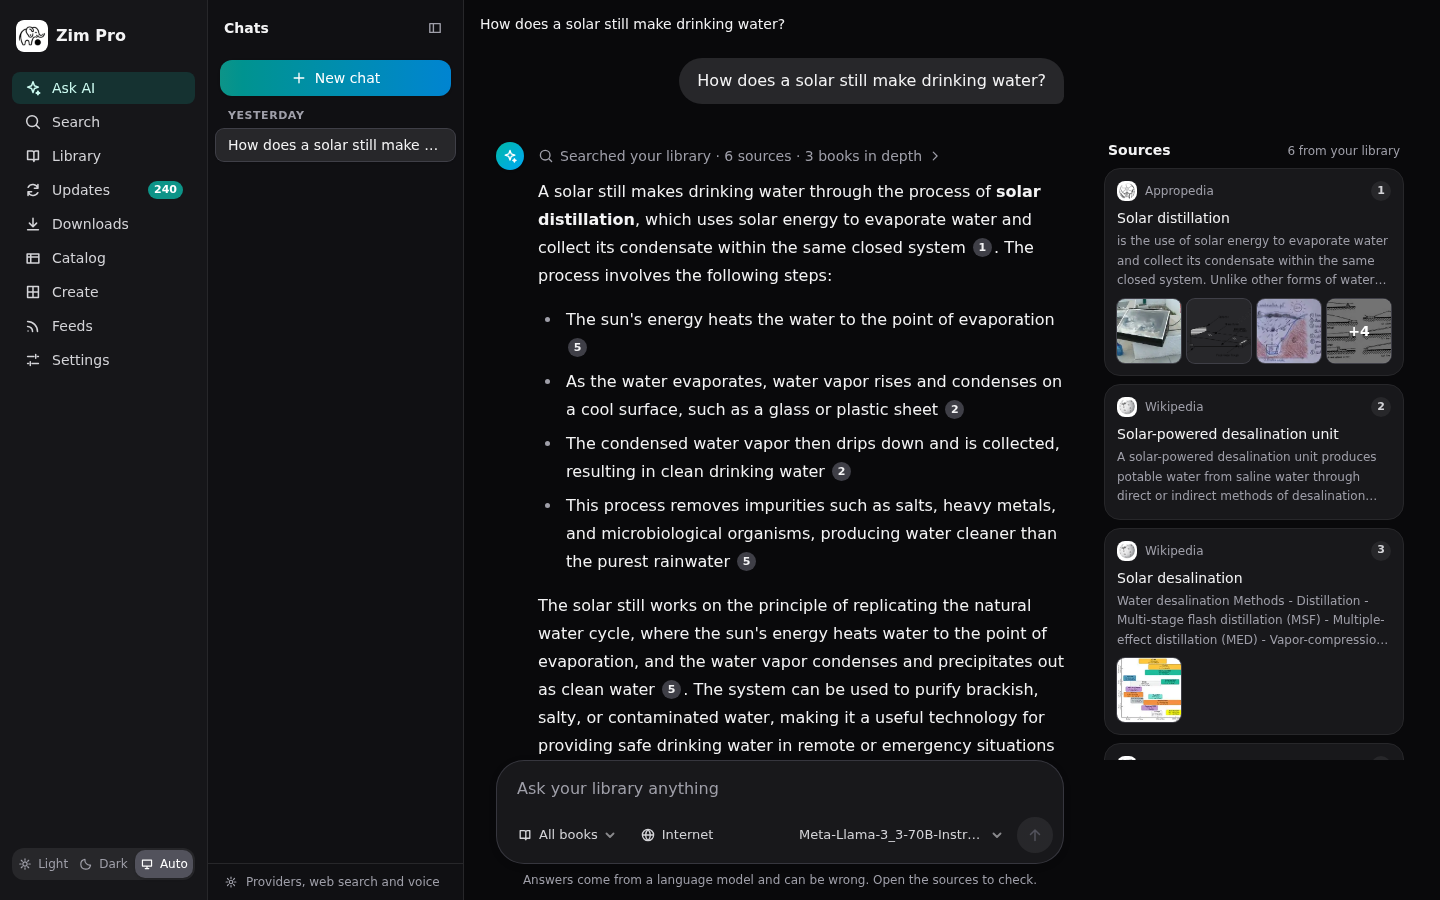
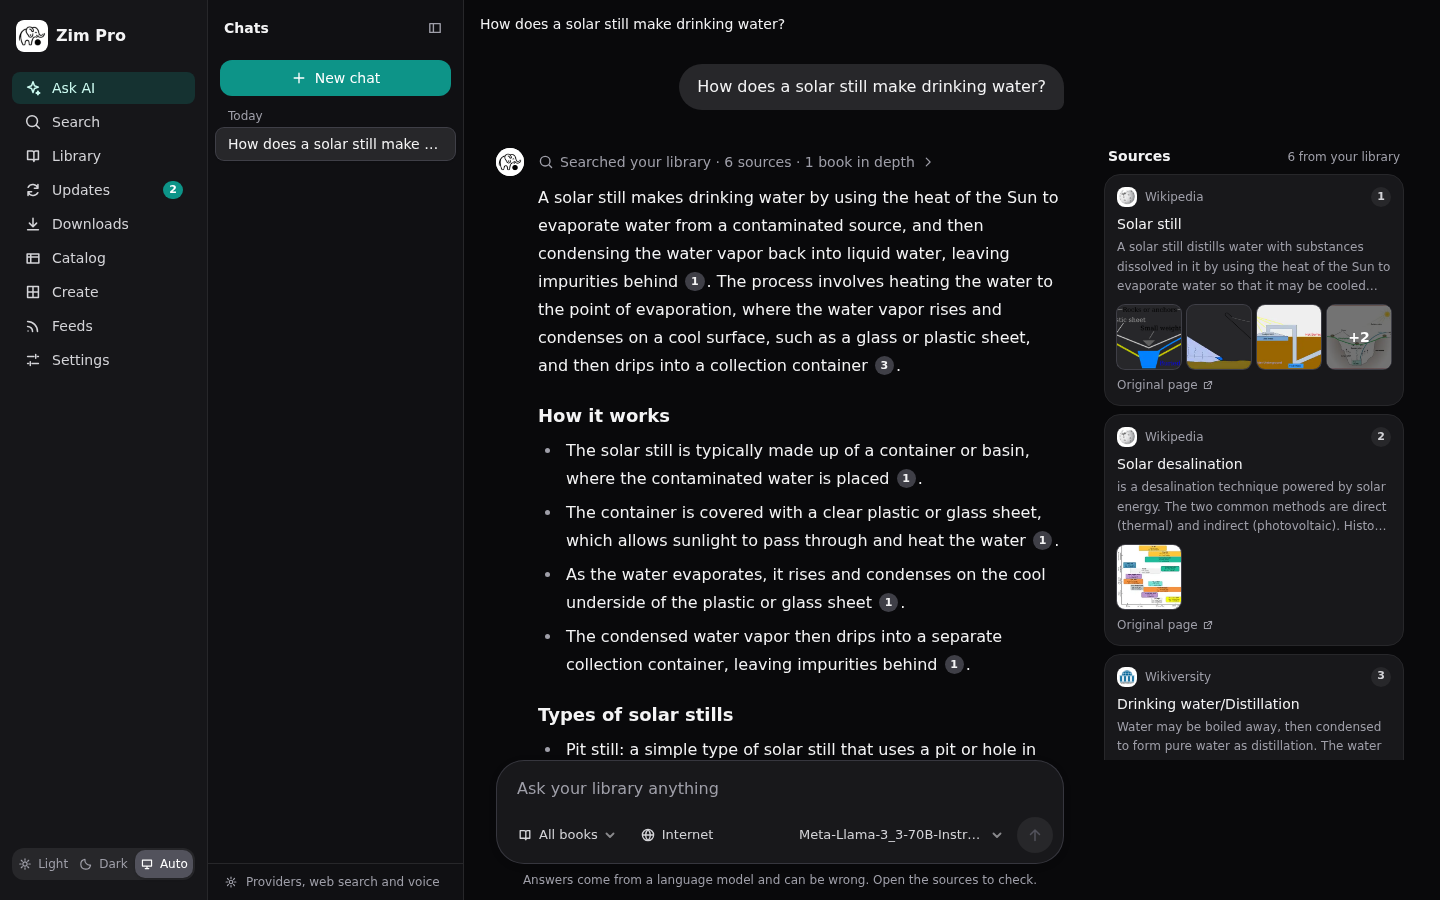
Release 0.5.4: app-style ZIMs in the reader, UI polish, PyPI README images
- Maps2ZIM and Gutenberg ZIMs work in the sandboxed reader again.
- Catalog, Library and Ask fixes from a UI review; Ask uses the
  elephant mark instead of the gradient sparkle.
- README images and links are absolute GitHub URLs so they render on
  PyPI; the Ask screenshots are retaken.

diff --git a/README.md b/README.md
@@ -1,5 +1,5 @@
 <p align="center">
-  <img src="assets/logo.png" alt="Zim Pro logo: an elephant with a ball" width="180">
+  <img src="https://raw.githubusercontent.com/magicstack-llp/zim-pro/master/assets/logo.png" alt="Zim Pro logo: an elephant with a ball" width="180">
 </p>
 
 <h1 align="center">Zim Pro</h1>
@@ -31,46 +31,46 @@ It replaces `kiwix-serve`.
 ## Screenshots
 
 <p align="center">
-  <a href="screenshots/ask.png"><img src="screenshots/ask.png" alt="Ask AI: an answer written from the library, with numbered citations and the sources beside it" width="100%"></a>
+  <a href="https://raw.githubusercontent.com/magicstack-llp/zim-pro/master/screenshots/ask.png"><img src="https://raw.githubusercontent.com/magicstack-llp/zim-pro/master/screenshots/ask.png" alt="Ask AI: an answer written from the library, with numbered citations and the sources beside it" width="100%"></a>
   <br><sub>Ask AI: an answer written from your books, with citations and the sources beside it</sub>
 </p>
 
 <table>
   <tr>
-    <td width="50%" valign="top"><a href="screenshots/ask-media.png"><img src="screenshots/ask-media.png" alt="Pictures and videos from the sources, under the answer" width="100%"></a><br><sub>Pictures and videos from the sources, under the answer</sub></td>
-    <td width="50%" valign="top"><a href="screenshots/search.png"><img src="screenshots/search.png" alt="Search across every book, with search history" width="100%"></a><br><sub>Search across every book, with search history</sub></td>
+    <td width="50%" valign="top"><a href="https://raw.githubusercontent.com/magicstack-llp/zim-pro/master/screenshots/ask-media.png"><img src="https://raw.githubusercontent.com/magicstack-llp/zim-pro/master/screenshots/ask-media.png" alt="Pictures and videos from the sources, under the answer" width="100%"></a><br><sub>Pictures and videos from the sources, under the answer</sub></td>
+    <td width="50%" valign="top"><a href="https://raw.githubusercontent.com/magicstack-llp/zim-pro/master/screenshots/search.png"><img src="https://raw.githubusercontent.com/magicstack-llp/zim-pro/master/screenshots/search.png" alt="Search across every book, with search history" width="100%"></a><br><sub>Search across every book, with search history</sub></td>
   </tr>
   <tr>
-    <td width="50%" valign="top"><a href="screenshots/library.png"><img src="screenshots/library.png" alt="The library" width="100%"></a><br><sub>The library</sub></td>
-    <td width="50%" valign="top"><a href="screenshots/markdown.png"><img src="screenshots/markdown.png" alt="Any article as Markdown, with its pictures" width="100%"></a><br><sub>Any article as Markdown, with its pictures</sub></td>
+    <td width="50%" valign="top"><a href="https://raw.githubusercontent.com/magicstack-llp/zim-pro/master/screenshots/library.png"><img src="https://raw.githubusercontent.com/magicstack-llp/zim-pro/master/screenshots/library.png" alt="The library" width="100%"></a><br><sub>The library</sub></td>
+    <td width="50%" valign="top"><a href="https://raw.githubusercontent.com/magicstack-llp/zim-pro/master/screenshots/markdown.png"><img src="https://raw.githubusercontent.com/magicstack-llp/zim-pro/master/screenshots/markdown.png" alt="Any article as Markdown, with its pictures" width="100%"></a><br><sub>Any article as Markdown, with its pictures</sub></td>
   </tr>
   <tr>
-    <td width="50%" valign="top"><a href="screenshots/updates.png"><img src="screenshots/updates.png" alt="Updates from the Kiwix catalog" width="100%"></a><br><sub>Updates from the Kiwix catalog</sub></td>
-    <td width="50%" valign="top"><a href="screenshots/settings.png"><img src="screenshots/settings.png" alt="Settings, in sections: AI, queues, monitoring, logs and more" width="100%"></a><br><sub>Settings, in sections: AI, queues, monitoring, logs and more</sub></td>
+    <td width="50%" valign="top"><a href="https://raw.githubusercontent.com/magicstack-llp/zim-pro/master/screenshots/updates.png"><img src="https://raw.githubusercontent.com/magicstack-llp/zim-pro/master/screenshots/updates.png" alt="Updates from the Kiwix catalog" width="100%"></a><br><sub>Updates from the Kiwix catalog</sub></td>
+    <td width="50%" valign="top"><a href="https://raw.githubusercontent.com/magicstack-llp/zim-pro/master/screenshots/settings.png"><img src="https://raw.githubusercontent.com/magicstack-llp/zim-pro/master/screenshots/settings.png" alt="Settings, in sections: AI, queues, monitoring, logs and more" width="100%"></a><br><sub>Settings, in sections: AI, queues, monitoring, logs and more</sub></td>
   </tr>
   <tr>
-    <td width="50%" valign="top"><a href="screenshots/create.png"><img src="screenshots/create.png" alt="Create: your own ZIMs from web links, each with its own schedule" width="100%"></a><br><sub>Create: your own ZIMs from web links, each with its own schedule</sub></td>
-    <td width="50%" valign="top"><a href="screenshots/create-link.png"><img src="screenshots/create-link.png" alt="A link's settings: rebuild schedule, sitemaps and RSS feeds" width="100%"></a><br><sub>A link's settings: rebuild schedule, sitemaps and RSS feeds</sub></td>
+    <td width="50%" valign="top"><a href="https://raw.githubusercontent.com/magicstack-llp/zim-pro/master/screenshots/create.png"><img src="https://raw.githubusercontent.com/magicstack-llp/zim-pro/master/screenshots/create.png" alt="Create: your own ZIMs from web links, each with its own schedule" width="100%"></a><br><sub>Create: your own ZIMs from web links, each with its own schedule</sub></td>
+    <td width="50%" valign="top"><a href="https://raw.githubusercontent.com/magicstack-llp/zim-pro/master/screenshots/create-link.png"><img src="https://raw.githubusercontent.com/magicstack-llp/zim-pro/master/screenshots/create-link.png" alt="A link's settings: rebuild schedule, sitemaps and RSS feeds" width="100%"></a><br><sub>A link's settings: rebuild schedule, sitemaps and RSS feeds</sub></td>
   </tr>
   <tr>
-    <td width="50%" valign="top"><a href="screenshots/create-jobs.png"><img src="screenshots/create-jobs.png" alt="Build jobs, with what each one saved" width="100%"></a><br><sub>Build jobs, with what each one saved</sub></td>
-    <td width="50%" valign="top"><a href="screenshots/feeds.png"><img src="screenshots/feeds.png" alt="Feeds: ZIMs kept up to date from RSS and Atom feeds" width="100%"></a><br><sub>Feeds: ZIMs kept up to date from RSS and Atom feeds</sub></td>
+    <td width="50%" valign="top"><a href="https://raw.githubusercontent.com/magicstack-llp/zim-pro/master/screenshots/create-jobs.png"><img src="https://raw.githubusercontent.com/magicstack-llp/zim-pro/master/screenshots/create-jobs.png" alt="Build jobs, with what each one saved" width="100%"></a><br><sub>Build jobs, with what each one saved</sub></td>
+    <td width="50%" valign="top"><a href="https://raw.githubusercontent.com/magicstack-llp/zim-pro/master/screenshots/feeds.png"><img src="https://raw.githubusercontent.com/magicstack-llp/zim-pro/master/screenshots/feeds.png" alt="Feeds: ZIMs kept up to date from RSS and Atom feeds" width="100%"></a><br><sub>Feeds: ZIMs kept up to date from RSS and Atom feeds</sub></td>
   </tr>
   <tr>
-    <td width="50%" valign="top"><a href="screenshots/monitoring.png"><img src="screenshots/monitoring.png" alt="Monitoring: health checks and the last hour of resources and traffic" width="100%"></a><br><sub>Monitoring: health checks, resources and traffic</sub></td>
+    <td width="50%" valign="top"><a href="https://raw.githubusercontent.com/magicstack-llp/zim-pro/master/screenshots/monitoring.png"><img src="https://raw.githubusercontent.com/magicstack-llp/zim-pro/master/screenshots/monitoring.png" alt="Monitoring: health checks and the last hour of resources and traffic" width="100%"></a><br><sub>Monitoring: health checks, resources and traffic</sub></td>
     <td width="50%" valign="top"></td>
   </tr>
 </table>
 
 <table>
   <tr>
-    <td width="60%" valign="top"><a href="screenshots/ask-dark.png"><img src="screenshots/ask-dark.png" alt="The dark theme" width="100%"></a><br><sub>The dark theme</sub></td>
-    <td width="20%" valign="top"><a href="screenshots/phone-ask.png"><img src="screenshots/phone-ask.png" alt="Ask AI on a phone" width="100%"></a><br><sub>On a phone</sub></td>
-    <td width="20%" valign="top"><a href="screenshots/phone-library.png"><img src="screenshots/phone-library.png" alt="The library on a phone" width="100%"></a><br><sub>Library on a phone</sub></td>
+    <td width="60%" valign="top"><a href="https://raw.githubusercontent.com/magicstack-llp/zim-pro/master/screenshots/ask-dark.png"><img src="https://raw.githubusercontent.com/magicstack-llp/zim-pro/master/screenshots/ask-dark.png" alt="The dark theme" width="100%"></a><br><sub>The dark theme</sub></td>
+    <td width="20%" valign="top"><a href="https://raw.githubusercontent.com/magicstack-llp/zim-pro/master/screenshots/phone-ask.png"><img src="https://raw.githubusercontent.com/magicstack-llp/zim-pro/master/screenshots/phone-ask.png" alt="Ask AI on a phone" width="100%"></a><br><sub>On a phone</sub></td>
+    <td width="20%" valign="top"><a href="https://raw.githubusercontent.com/magicstack-llp/zim-pro/master/screenshots/phone-library.png"><img src="https://raw.githubusercontent.com/magicstack-llp/zim-pro/master/screenshots/phone-library.png" alt="The library on a phone" width="100%"></a><br><sub>Library on a phone</sub></td>
   </tr>
 </table>
 
-The screenshots are in [`screenshots/`](screenshots). The articles and pictures shown in them
+The screenshots are in [`screenshots/`](https://github.com/magicstack-llp/zim-pro/blob/master/screenshots). The articles and pictures shown in them
 come from Wikipedia and Appropedia, which publish them under Creative Commons licences. The
 links and feeds shown on the Create and Feeds pages are public sites used as examples.
 
@@ -152,19 +152,19 @@ docker compose up -d
 
 #### Ready-made files
 
-The [`docker/`](docker) folder has complete compose files for each setup, with their
+The [`docker/`](https://github.com/magicstack-llp/zim-pro/blob/master/docker) folder has complete compose files for each setup, with their
 values in one `.env` file. Copy the folder, pick a file, and start it:
 
 | File | What you get |
 |---|---|
-| [`compose.yml`](docker/compose.yml) | Zim Pro on its own |
-| [`compose.solver.yml`](docker/compose.solver.yml) | + captcha solver (FlareSolverr) |
-| [`compose.vpn.yml`](docker/compose.vpn.yml) | + VPN (Gluetun) for links and feeds, with the solver inside it |
-| [`compose.vpn-external.yml`](docker/compose.vpn-external.yml) | Uses a Gluetun you already run elsewhere |
-| [`compose.vpn-all.yml`](docker/compose.vpn-all.yml) | All of Zim Pro's traffic through the VPN |
-| [`compose.zimit.yml`](docker/compose.zimit.yml) | + browser capture (Zimit) |
-| [`compose.redis.yml`](docker/compose.redis.yml) | + Redis for the queues and a stream of the logs |
-| [`compose.full.yml`](docker/compose.full.yml) | VPN, solver, browser capture and Redis together |
+| [`compose.yml`](https://github.com/magicstack-llp/zim-pro/blob/master/docker/compose.yml) | Zim Pro on its own |
+| [`compose.solver.yml`](https://github.com/magicstack-llp/zim-pro/blob/master/docker/compose.solver.yml) | + captcha solver (FlareSolverr) |
+| [`compose.vpn.yml`](https://github.com/magicstack-llp/zim-pro/blob/master/docker/compose.vpn.yml) | + VPN (Gluetun) for links and feeds, with the solver inside it |
+| [`compose.vpn-external.yml`](https://github.com/magicstack-llp/zim-pro/blob/master/docker/compose.vpn-external.yml) | Uses a Gluetun you already run elsewhere |
+| [`compose.vpn-all.yml`](https://github.com/magicstack-llp/zim-pro/blob/master/docker/compose.vpn-all.yml) | All of Zim Pro's traffic through the VPN |
+| [`compose.zimit.yml`](https://github.com/magicstack-llp/zim-pro/blob/master/docker/compose.zimit.yml) | + browser capture (Zimit) |
+| [`compose.redis.yml`](https://github.com/magicstack-llp/zim-pro/blob/master/docker/compose.redis.yml) | + Redis for the queues and a stream of the logs |
+| [`compose.full.yml`](https://github.com/magicstack-llp/zim-pro/blob/master/docker/compose.full.yml) | VPN, solver, browser capture and Redis together |
 
 ```sh
 cd docker
@@ -173,7 +173,7 @@ mkdir -p zims state
 docker compose -f compose.vpn.yml up -d
 ```
 
-[`docker/README.md`](docker/README.md) says which to choose.
+[`docker/README.md`](https://github.com/magicstack-llp/zim-pro/blob/master/docker/README.md) says which to choose.
 
 #### Full example: with a VPN, a captcha solver and browser capture
 
@@ -300,13 +300,13 @@ Removing the container loses nothing: the books are in `zims` and the settings, 
 download progress are in `state`. A download in progress when the container stops carries on
 from where it was when it starts again.
 
-To stay on one version, use a version tag in place of `latest`, such as `:0.5.0` or `:0.5`.
+To stay on one version, use a version tag in place of `latest`, such as `:0.5.4` or `:0.5`.
 
 ### Build the image yourself
 
 The `compose.yml` in this repository builds the image from source. It is the full setup
 (VPN, captcha solver and browser capture), so it needs the VPN values in `.env`; see
-[`docker/.env.example`](docker/.env.example). To build and run Zim Pro alone:
+[`docker/.env.example`](https://github.com/magicstack-llp/zim-pro/blob/master/docker/.env.example). To build and run Zim Pro alone:
 
 ```sh
 mkdir -p zims state
@@ -324,8 +324,8 @@ it, with the web app included in both.
 **Standalone executable** for Linux (x86-64 and arm64). One file, no Python needed:
 
 ```sh
-tar -xzf zim-pro-0.5.0-linux-x86_64.tar.gz
-cd zim-pro-0.5.0-linux-x86_64
+tar -xzf zim-pro-0.5.4-linux-x86_64.tar.gz
+cd zim-pro-0.5.4-linux-x86_64
 KIWIX_DATA_DIR=/path/to/zims KIWIX_STATE_DIR=./state ./zim-pro   # http://localhost:8080
 ```
 
@@ -499,7 +499,7 @@ The first capture downloads the Zimit image (about 1.5 GB).
 
 ### Sites that block or check visitors: captcha solver and VPN
 
-Two optional helper containers come with the compose files in [`docker/`](docker):
+Two optional helper containers come with the compose files in [`docker/`](https://github.com/magicstack-llp/zim-pro/blob/master/docker):
 `compose.solver.yml` has the solver, `compose.vpn.yml` the VPN with the solver inside it.
 They apply to pages
 fetched by the built-in crawler and by Feeds, not to Zimit captures, the catalog or ZIM
@@ -678,7 +678,7 @@ of each queue and whether it is paused are kept in Redis instead: a sorted set
 key `zimpro:queue:<name>:paused`, which you can read and change with `redis-cli` or any
 other tool; Zim Pro follows within five seconds. The database still keeps the record of
 every job, so if Redis stops the queues carry on from it, and Redis is filled again when
-it is back. [`docker/compose.redis.yml`](docker/compose.redis.yml) runs the two together.
+it is back. [`docker/compose.redis.yml`](https://github.com/magicstack-llp/zim-pro/blob/master/docker/compose.redis.yml) runs the two together.
 
 **Monitoring** runs health checks (free disk space for the library and the state folder,
 the database, how promptly the server answers, memory, Redis, the VPN, the captcha solver,
@@ -750,9 +750,9 @@ uv run pytest
 
 ## Contributing
 
-Bug reports, ideas and pull requests are welcome: see [CONTRIBUTING.md](CONTRIBUTING.md) for
-how to set up, run the checks and send a change, and the [Code of Conduct](CODE_OF_CONDUCT.md).
-Please report security problems privately, as [SECURITY.md](SECURITY.md) describes.
+Bug reports, ideas and pull requests are welcome: see [CONTRIBUTING.md](https://github.com/magicstack-llp/zim-pro/blob/master/CONTRIBUTING.md) for
+how to set up, run the checks and send a change, and the [Code of Conduct](https://github.com/magicstack-llp/zim-pro/blob/master/CODE_OF_CONDUCT.md).
+Please report security problems privately, as [SECURITY.md](https://github.com/magicstack-llp/zim-pro/blob/master/SECURITY.md) describes.
 
 ## Built with
 
@@ -776,7 +776,7 @@ The package version comes from the tag, and the release notes from that version'
 tagging.
 
 ```sh
-git tag v0.5.0 && git push origin v0.5.0
+git tag v0.5.4 && git push origin v0.5.4
 ```
 
 Every push to `master` and every pull request runs `.github/workflows/ci.yml`: Python lint
@@ -787,7 +787,7 @@ Every push to `master` and every pull request runs `.github/workflows/ci.yml`: P
 Copyright (C) 2026 Kuldip Satpute and Magicstack Enterprise LLP.
 
 Zim Pro is free software: you can redistribute it and/or modify it under the terms of the
-[GNU General Public License, version 3](LICENSE), as published by the Free Software
+[GNU General Public License, version 3](https://github.com/magicstack-llp/zim-pro/blob/master/LICENSE), as published by the Free Software
 Foundation. It is distributed in the hope that it will be useful, but WITHOUT ANY
 WARRANTY; without even the implied warranty of MERCHANTABILITY or FITNESS FOR A PARTICULAR
 PURPOSE. See the licence for details.

diff --git a/CHANGELOG.md b/CHANGELOG.md
@@ -7,8 +7,11 @@ and this project adheres to [Semantic Versioning](https://semver.org/spec/v2.0.0
 
 ## [Unreleased]
 
+## [0.5.4] - 2026-11-17
+
 ### Fixed
 
+- PyPI page: the README's images and links are absolute GitHub URLs, so the screenshots and logo show on pypi.org.
 - Reader: ZIMs that are JavaScript apps load again inside the sandboxed reader. Maps2ZIM showed a blank page and Gutenberg showed no books.
   - `/content` now answers sandboxed pages (`Origin: null`) with `Access-Control-Allow-Origin: null`.
   - Book pages may `fetch()` other `/content/` files; `/api` stays blocked.
@@ -26,6 +29,7 @@ and this project adheres to [Semantic Versioning](https://semver.org/spec/v2.0.0
 - Ask uses the Zim Pro elephant in place of the gradient sparkle tile and answer avatar.
 - Ask: the gradient headline, colour wash and gradient buttons are replaced with solid brand teal.
 - One teal `:focus-visible` ring across the app.
+- README: the Ask screenshots are retaken to show the new look.
 
 ## [0.5.3] - 2026-11-16
 
@@ -279,7 +283,8 @@ First release.
 - **Packaging.** A Docker image for amd64 and arm64 on GHCR, and a Python wheel with the web
   app inside, both published by a release workflow when a version tag is pushed.
 
-[Unreleased]: https://github.com/magicstack-llp/zim-pro/compare/v0.5.3...HEAD
+[Unreleased]: https://github.com/magicstack-llp/zim-pro/compare/v0.5.4...HEAD
+[0.5.4]: https://github.com/magicstack-llp/zim-pro/compare/v0.5.3...v0.5.4
 [0.5.3]: https://github.com/magicstack-llp/zim-pro/compare/v0.5.2...v0.5.3
 [0.5.2]: https://github.com/magicstack-llp/zim-pro/compare/v0.5.1...v0.5.2
 [0.5.1]: https://github.com/magicstack-llp/zim-pro/compare/v0.5.0...v0.5.1
